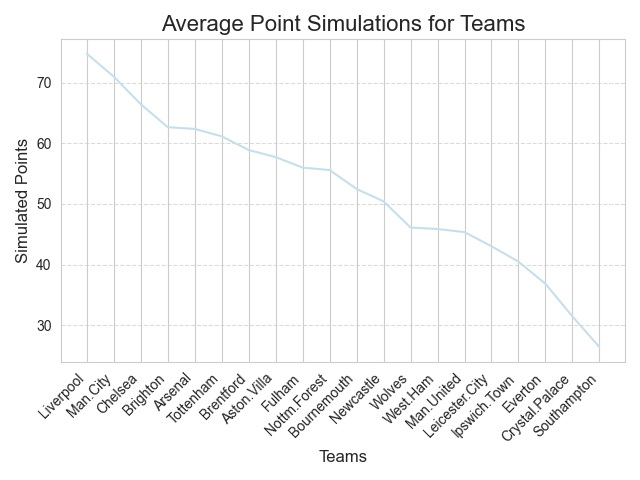
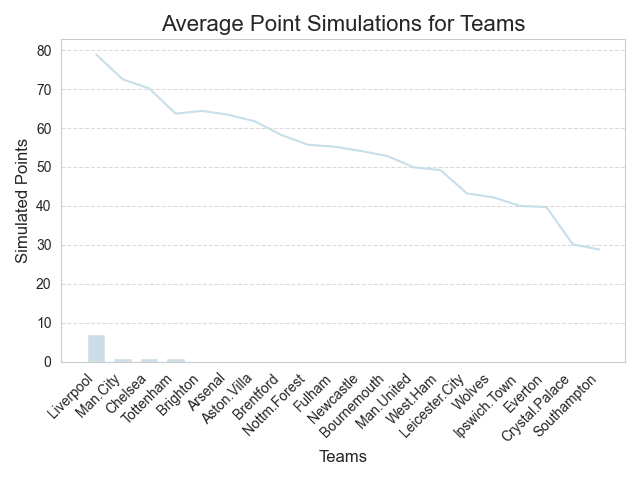
checking for n =10,100 and 1000

diff --git a/probProject.py b/probProject.py
@@ -81,7 +81,7 @@ def simulate_season(pl_stats, pl_remaining, final_stats):
 #    return final_stats.index[0]
 
 np.random.seed(0)
-sim_count = 1000
+sim_count = 10
 winners = []
 
 for _ in range(sim_count):
